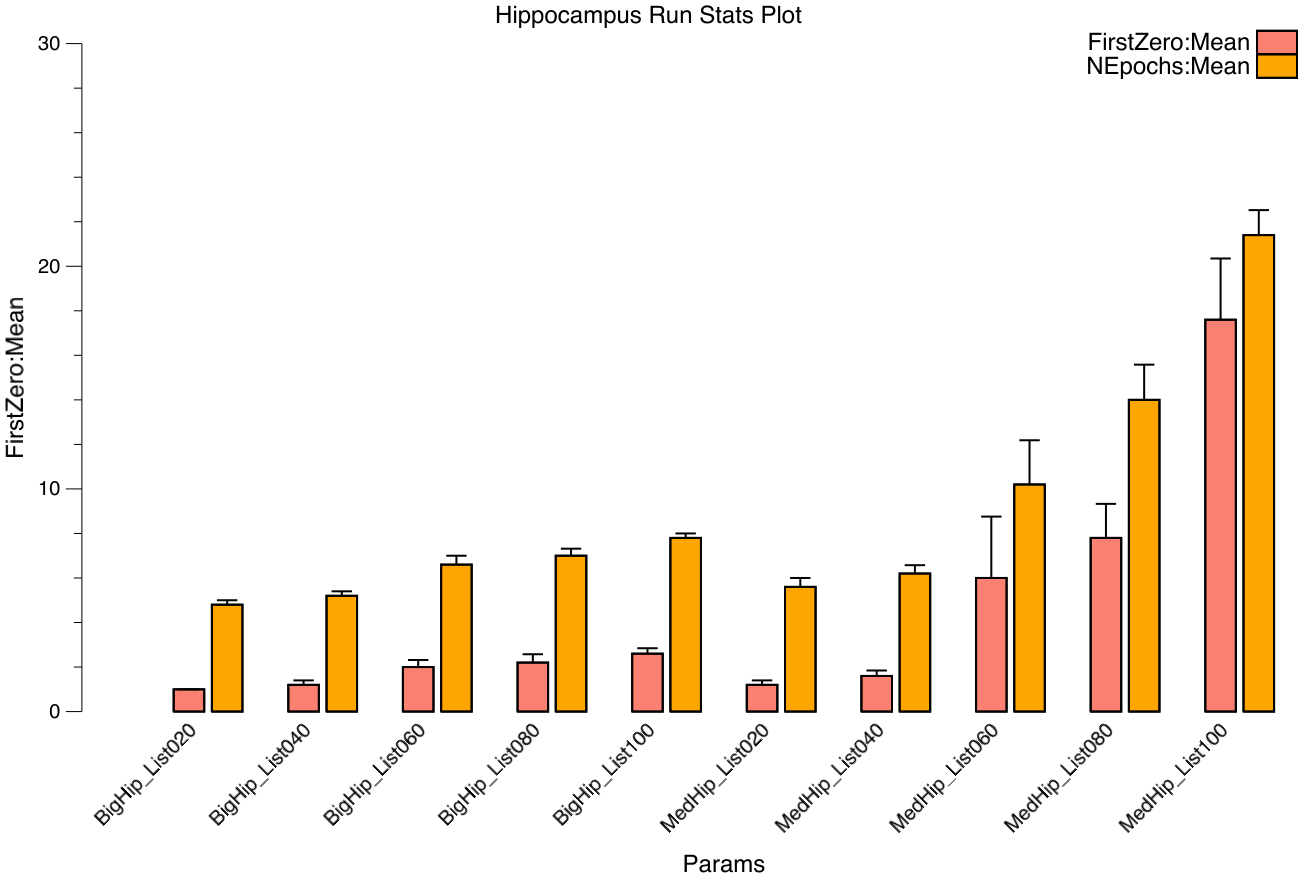
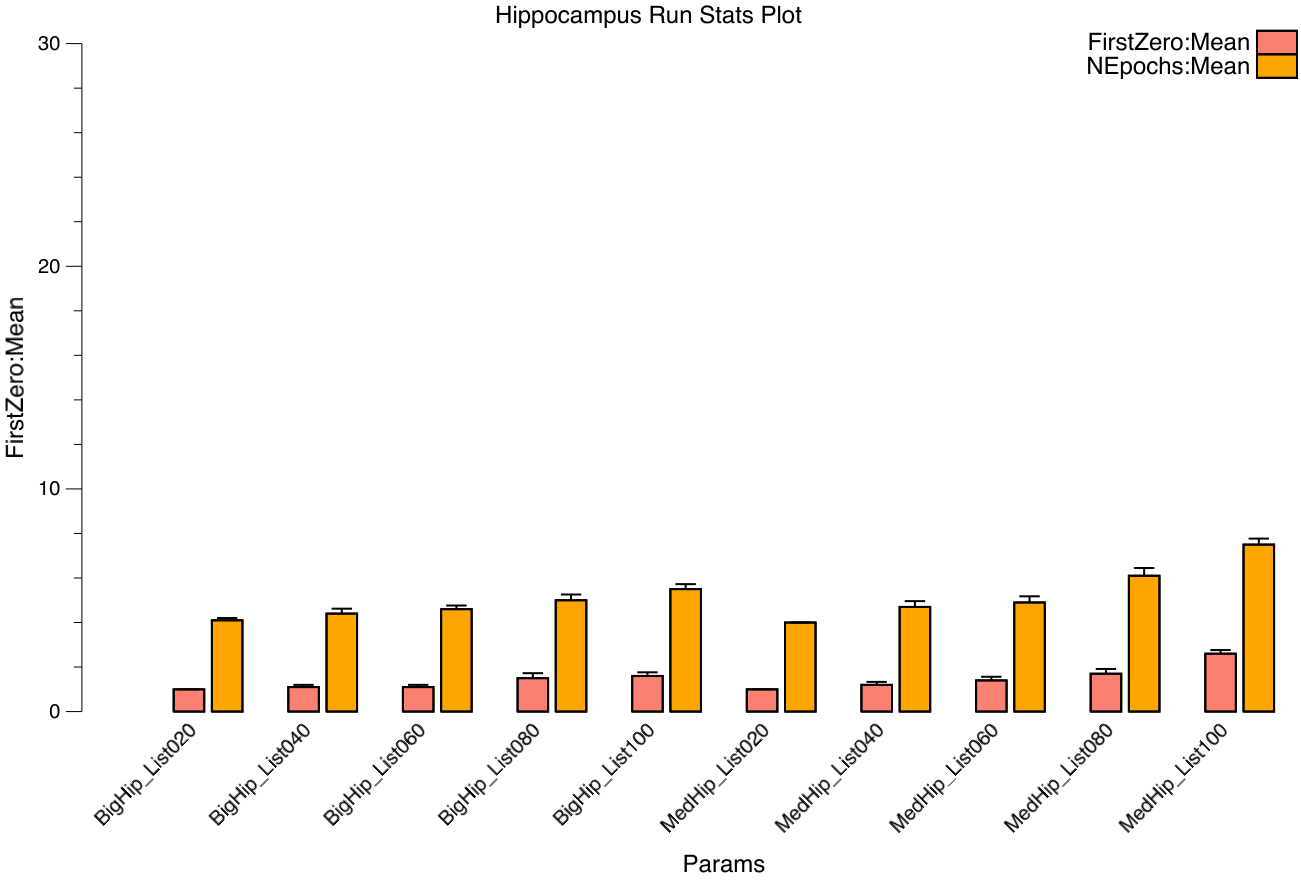
latest hip_bench and def_param with their resutlts

diff --git a/examples/hip_bench/def_params.go b/examples/hip_bench/def_params.go
@@ -69,8 +69,8 @@ var ParamSets = params.Sets{
 				}},
 			{Sel: "#CA3ToCA3", Desc: "CA3 recurrent cons: rel=1 slightly better than 2",
 				Params: params.Params{
-					"Prjn.WtScale.Rel": "0.1", // .1 = .2 > .5 > 1 !
-					"Prjn.Learn.Lrate": "0.1", // .1 > .08 (close) > .15 > .2 > .04
+					"Prjn.WtScale.Rel": "2", // 2 > 1 > .5 = .1
+					"Prjn.Learn.Lrate": "0.1", // .1 > .08 (close) > .15 > .2 > .04;
 				}},
 			{Sel: "#ECinToDG", Desc: "DG learning is surprisingly critical: maxed out fast, hebbian works best",
 				Params: params.Params{
@@ -203,19 +203,19 @@ var ParamSets = params.Sets{
 				}},
 		},
 	}},
-	{Name: "List120", Desc: "list size", Sheets: params.Sheets{
+	{Name: "List125", Desc: "list size", Sheets: params.Sheets{
 		"Pat": &params.Sheet{
 			{Sel: "PatParams", Desc: "pattern params",
 				Params: params.Params{
-					"PatParams.ListSize": "120",
+					"PatParams.ListSize": "125",
 				}},
 		},
 	}},
-	{Name: "List160", Desc: "list size", Sheets: params.Sheets{
+	{Name: "List150", Desc: "list size", Sheets: params.Sheets{
 		"Pat": &params.Sheet{
 			{Sel: "PatParams", Desc: "pattern params",
 				Params: params.Params{
-					"PatParams.ListSize": "160",
+					"PatParams.ListSize": "150",
 				}},
 		},
 	}},
@@ -237,7 +237,7 @@ var ParamSets = params.Sets{
 					"HipParams.CA1Pool.X": "10",
 					"HipParams.CA3Size.Y": "20",
 					"HipParams.CA3Size.X": "20",
-					"HipParams.DGRatio":   "1.5",
+					"HipParams.DGRatio":   "2.236", // 1.5 before
 				}},
 		},
 	}},
@@ -251,7 +251,7 @@ var ParamSets = params.Sets{
 					"HipParams.CA1Pool.X": "15",
 					"HipParams.CA3Size.Y": "30",
 					"HipParams.CA3Size.X": "30",
-					"HipParams.DGRatio":   "1.5",
+					"HipParams.DGRatio":   "2.236", // 1.5 before
 				}},
 		},
 	}},
@@ -265,7 +265,7 @@ var ParamSets = params.Sets{
 					"HipParams.CA1Pool.X": "20",
 					"HipParams.CA3Size.Y": "40",
 					"HipParams.CA3Size.X": "40",
-					"HipParams.DGRatio":   "1.5",
+					"HipParams.DGRatio":   "2.236", // 1.5 before
 				}},
 		},
 	}},

diff --git a/examples/hip_bench/hip_bench.go b/examples/hip_bench/hip_bench.go
@@ -2220,12 +2220,12 @@ var SimProps = ki.Props{
 
 // zycyc
 // OuterLoopParams are the parameters to run for outer crossed factor testing
-var OuterLoopParams = []string{"BigHip"}
-//var OuterLoopParams = []string{"MedHip", "BigHip"}
+//var OuterLoopParams = []string{"BigHip"}
+var OuterLoopParams = []string{"MedHip", "BigHip"}
 
 // InnerLoopParams are the parameters to run for inner crossed factor testing
-var InnerLoopParams = []string{"List020", "List040"}
-//var InnerLoopParams = []string{"List020", "List040", "List060", "List080", "List100"}
+//var InnerLoopParams = []string{"List125", "List150", "List200"}
+var InnerLoopParams = []string{"List020", "List040", "List060", "List080", "List100"}
 
 // TwoFactorRun runs outer-loop crossed with inner-loop params
 func (ss *Sim) TwoFactorRun() {
@@ -2243,7 +2243,7 @@ func (ss *Sim) TwoFactorRun() {
 			ss.ReConfigNet() // note: this applies Base params to Network
 			ss.ConfigEnv()
 			ss.StopNow = false
-			ss.PreTrain() //zycyc
+			ss.PreTrain()
 			ss.NewRun()
 			ss.Train()
 		}
